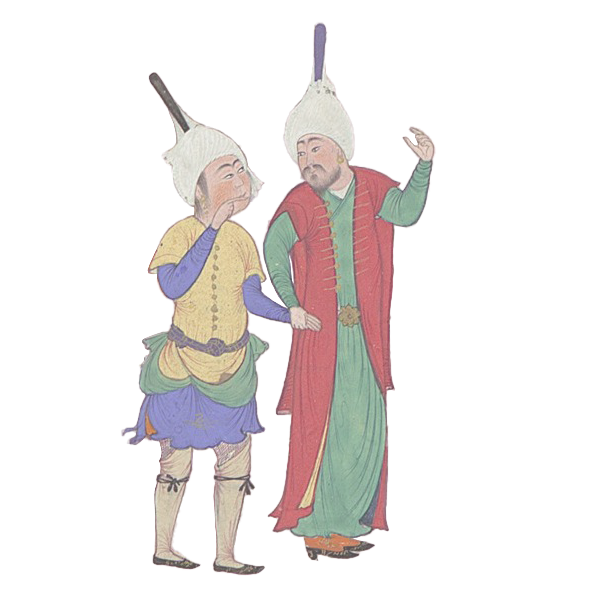
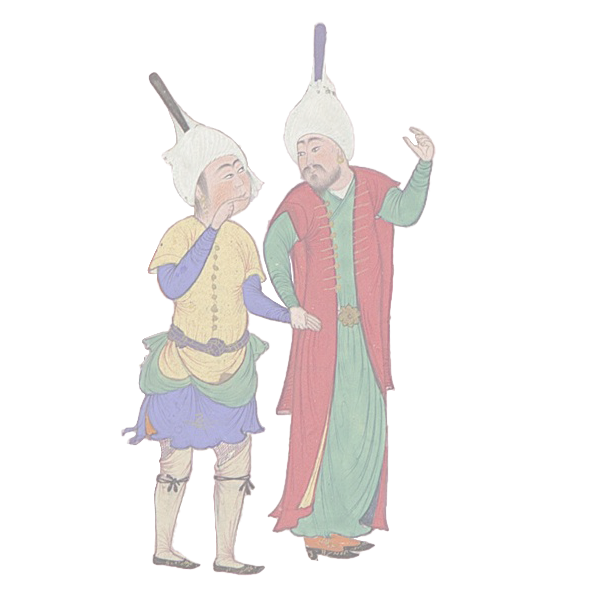
lower opacity for the values images, added priority to how some images are loaded, well see if it makes a diff

diff --git a/components/About/Hero/index.tsx b/components/About/Hero/index.tsx
@@ -97,6 +97,7 @@ export default function Hero({title}:Props){
             style={ridersStyle}
             alt="riders"
             className='absolute top-[2vmin] riders'
+            priority={true}
             />
 
             <Image 
@@ -104,6 +105,7 @@ export default function Hero({title}:Props){
             style={WomenStyle}
             alt="woman"
             className='absolute top-[5vmin] woman'
+            priority={true}
             />
             
             <Image 
@@ -111,6 +113,7 @@ export default function Hero({title}:Props){
             style={drumsStyle}
             alt="men-playing-drums"
             className='absolute top-[10vmin] drums'
+            priority={true}
             />
     
             <Image 
@@ -118,6 +121,7 @@ export default function Hero({title}:Props){
             style={menStyle}
             alt="men"
             className='absolute bottom-0 men'
+            priority={true}
             />
 
             <Image 
@@ -125,6 +129,7 @@ export default function Hero({title}:Props){
             style={buildingStyle}
             alt="palace"
             className='absolute left-[18vmin] top-[1vmin] palace'
+            priority={true}
             />
 
             <Image 
@@ -132,6 +137,7 @@ export default function Hero({title}:Props){
             style={buildingStyle}
             alt="tower"
             className='absolute left-[25vmin] top-[6vmin] tower'
+            priority={true}
             />
 
             <Image 
@@ -139,6 +145,7 @@ export default function Hero({title}:Props){
             style={buildingStyle}
             alt="building"
             className='absolute left-[14vmin] top-[9vmin] building'
+            priority={true}
             />
             
             <Image 
@@ -146,6 +153,7 @@ export default function Hero({title}:Props){
             style={angelStyle}
             alt="musician"
             className='absolute bottom-[40vmin] musician'
+            priority={true}
             />
 
             <Image 
@@ -153,6 +161,7 @@ export default function Hero({title}:Props){
             style={giftsStyle}
             alt="men-bringing-gifts"
             className='absolute bottom-[25vmin] gift'
+            priority={true}
             />
 
             <Image 
@@ -160,6 +169,7 @@ export default function Hero({title}:Props){
             style={coupleStyle}
             alt="couple"
             className='absolute bottom-10 right-[20vmax] couple'
+            priority={true}
             />
 
             <Image 
@@ -167,6 +177,7 @@ export default function Hero({title}:Props){
             style={famStyle}
             alt="Family"
             className='absolute bottom-[4vmin] family'
+            priority={true}
             />
                     
                 

diff --git a/components/Events/Hero/index.tsx b/components/Events/Hero/index.tsx
@@ -57,6 +57,7 @@ export default function Hero({title}:Props){
                 style={deerStyle}
                 alt="deer"
                 className='absolute top-0 deer'
+                priority={true}
                 />
 
                 <Image 
@@ -64,6 +65,7 @@ export default function Hero({title}:Props){
                 style={sndRow}
                 alt="soldiers"
                 className='absolute bottom-[50vmin] soldiers2'
+                priority={true}
                 />
 
                 <Image 
@@ -71,6 +73,7 @@ export default function Hero({title}:Props){
                 style={sndRow}
                 alt="soldiers"
                 className='absolute bottom-[35vmin] right-0 soldiers1'
+                priority={true}
                 />
 
                 <Image 
@@ -78,6 +81,7 @@ export default function Hero({title}:Props){
                 style={treeStyle }
                 alt="tree"
                 className='absolute bottom-[30vmin] tree'
+                priority={true}
                 />
 
                 <Image 
@@ -85,12 +89,14 @@ export default function Hero({title}:Props){
                 style={dragonStyle}
                 alt="dragon"
                 className='absolute bottom-0 dragon'
+                priority={true}
                 />
                 <Image 
                 src={warrior}
                 style={dragonStyle}
                 alt="warrior"
                 className='absolute bottom-0 warrior'
+                priority={true}
                 />
             </div>
         </div>

diff --git a/components/Home/Hero/index.tsx b/components/Home/Hero/index.tsx
@@ -33,6 +33,7 @@ export default function Hero() {
             style={imageStyle}
             alt="hafez-parallax"
             className='absolute top-0'
+            priority={true}
             />
 
             </motion.div>
